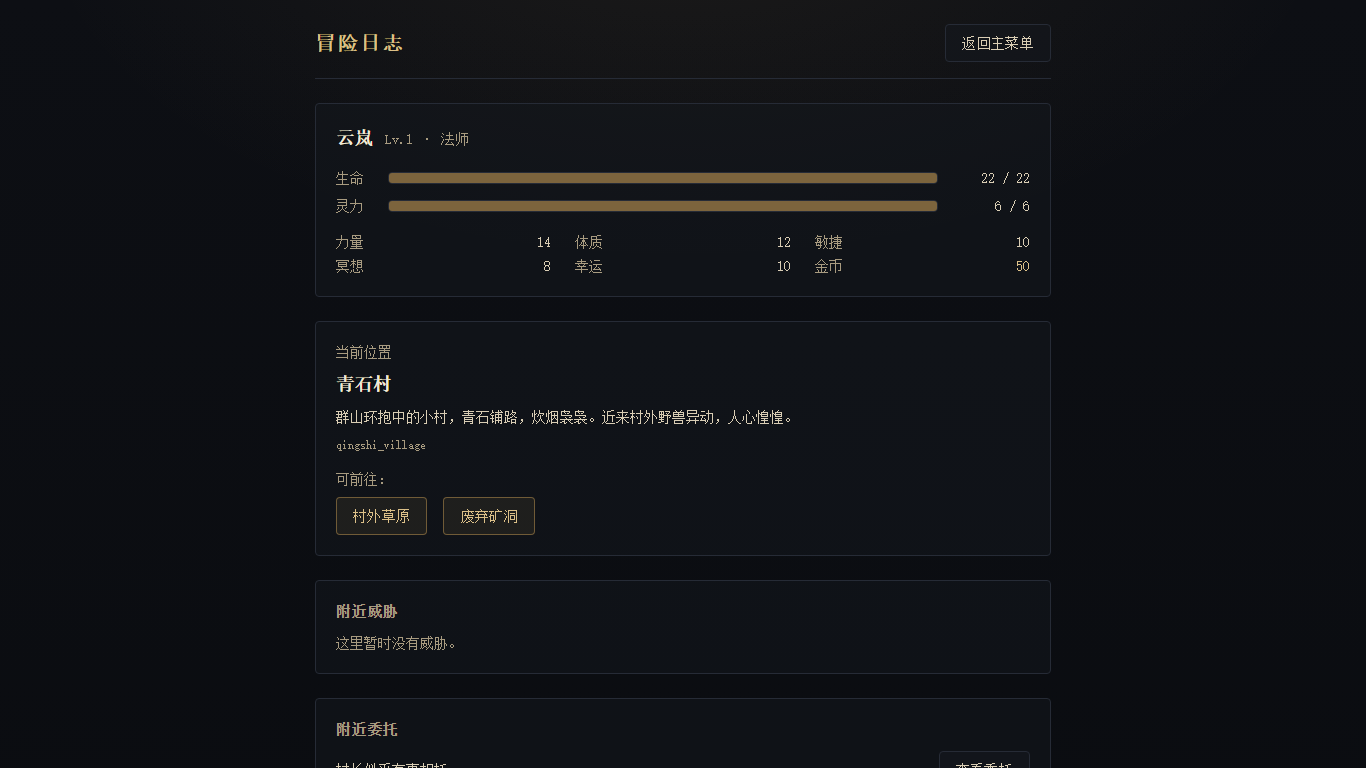
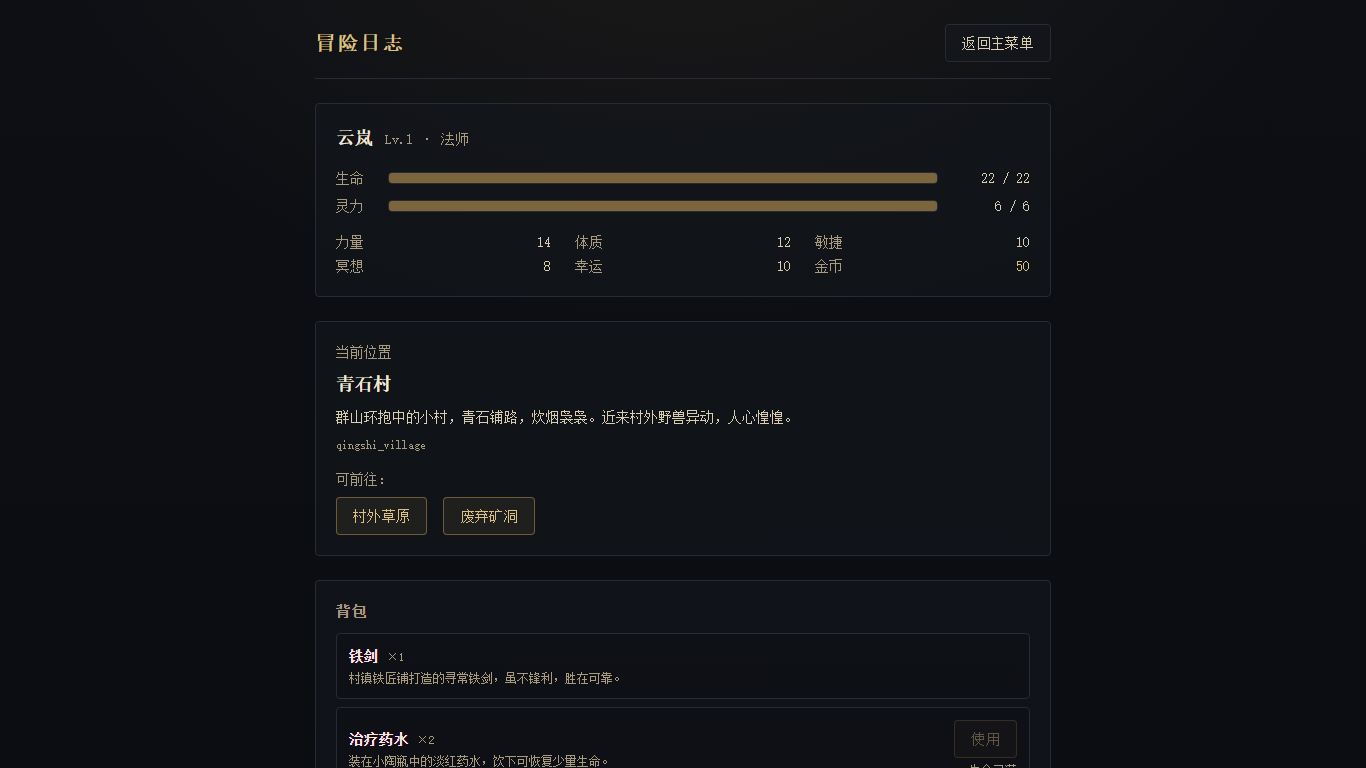
feat: add inventory healing flow

Changed region(s): [[0.246, 0.7812, 0.4612, 0.9062], [0.246, 0.9375, 0.4305, 1.0], [0.7072, 0.9375, 0.7379, 1.0]]

diff --git a/src/game/state/gameStore.test.ts b/src/game/state/gameStore.test.ts
@@ -517,3 +517,93 @@ describe('TM-P0-009：resolveCombatVictory 战斗胜利推进任务', () => {
     expect(useGameStore.getState().hasSave).toBe(false)
   })
 })
+
+describe('TM-P0-010：useHealingPotion 治疗药水', () => {
+  const player = () => useGameStore.getState().gameState!.player
+  const potionQty = () =>
+    useGameStore.getState().gameState?.inventory.find((e) => e.itemId === 'healing_potion')?.quantity ?? 0
+
+  it('正常治疗：HP 10/22 药水×2 → true，HP 18，药水×1', () => {
+    useGameStore.setState({
+      gameState: {
+        ...useGameStore.getState().gameState!,
+        player: { ...useGameStore.getState().gameState!.player, hp: 10 },
+      },
+    })
+    expect(useGameStore.getState().useHealingPotion()).toBe(true)
+    expect(player().hp).toBe(18)
+    expect(potionQty()).toBe(1)
+  })
+
+  it('上限截断：HP 20/22 → HP 22（不超过 maxHp），药水×1', () => {
+    useGameStore.setState({
+      gameState: {
+        ...useGameStore.getState().gameState!,
+        player: { ...useGameStore.getState().gameState!.player, hp: 20 },
+      },
+    })
+    expect(useGameStore.getState().useHealingPotion()).toBe(true)
+    expect(player().hp).toBe(22)
+    expect(potionQty()).toBe(1)
+  })
+
+  it('满血不浪费：HP 22/22 → false，HP 与药水不变', () => {
+    const before = JSON.stringify(useGameStore.getState().gameState)
+    expect(useGameStore.getState().useHealingPotion()).toBe(false)
+    expect(JSON.stringify(useGameStore.getState().gameState)).toBe(before)
+  })
+
+  it('HP 0 不允许复活：→ false，HP 与药水不变', () => {
+    useGameStore.setState({
+      gameState: {
+        ...useGameStore.getState().gameState!,
+        player: { ...useGameStore.getState().gameState!.player, hp: 0 },
+      },
+    })
+    const before = JSON.stringify(useGameStore.getState().gameState)
+    expect(useGameStore.getState().useHealingPotion()).toBe(false)
+    expect(JSON.stringify(useGameStore.getState().gameState)).toBe(before)
+  })
+
+  it('无药水：背包无 healing_potion → false，GameState 完全不变', () => {
+    useGameStore.setState({
+      gameState: {
+        ...useGameStore.getState().gameState!,
+        player: { ...useGameStore.getState().gameState!.player, hp: 10 },
+        inventory: useGameStore.getState().gameState!.inventory.filter((e) => e.itemId !== 'healing_potion'),
+      },
+    })
+    const before = JSON.stringify(useGameStore.getState().gameState)
+    expect(useGameStore.getState().useHealingPotion()).toBe(false)
+    expect(JSON.stringify(useGameStore.getState().gameState)).toBe(before)
+  })
+
+  it('最后一瓶：药水×1 成功使用后 inventory 移除该条目', () => {
+    useGameStore.setState({
+      gameState: {
+        ...useGameStore.getState().gameState!,
+        player: { ...useGameStore.getState().gameState!.player, hp: 10 },
+        inventory: [{ itemId: 'healing_potion', quantity: 1 }],
+      },
+    })
+    expect(useGameStore.getState().useHealingPotion()).toBe(true)
+    expect(player().hp).toBe(18)
+    expect(useGameStore.getState().gameState?.inventory.some((e) => e.itemId === 'healing_potion')).toBe(false)
+  })
+
+  it('无 gameState → false', () => {
+    useGameStore.setState({ gameState: null })
+    expect(useGameStore.getState().useHealingPotion()).toBe(false)
+  })
+
+  it('不自动保存：使用成功后 hasSave 仍 false', () => {
+    useGameStore.setState({
+      gameState: {
+        ...useGameStore.getState().gameState!,
+        player: { ...useGameStore.getState().gameState!.player, hp: 10 },
+      },
+    })
+    expect(useGameStore.getState().useHealingPotion()).toBe(true)
+    expect(useGameStore.getState().hasSave).toBe(false)
+  })
+})

diff --git a/src/pages/GamePage.tsx b/src/pages/GamePage.tsx
@@ -2,7 +2,7 @@ import { useState } from 'react'
 import Button from '../components/Button'
 import { useGameStore } from '../game/state/gameStore'
 import { getProfessionName, ATTRIBUTE_KEYS, ATTRIBUTE_LABELS } from '../game/content/professions'
-import { getEnemy, getLocation, getNpc, getQuest, QUESTS } from '../game/content'
+import { getEnemy, getItem, getLocation, getNpc, getQuest, QUESTS } from '../game/content'
 import type { QuestStatus } from '../game/types'
 
 interface GamePageProps {
@@ -43,6 +43,7 @@ export default function GamePage({ onBackToMenu, onEngage }: GamePageProps) {
   const discoverQuest = useGameStore((s) => s.discoverQuest)
   const acceptQuest = useGameStore((s) => s.acceptQuest)
   const completeQuest = useGameStore((s) => s.completeQuest)
+  const useHealingPotion = useGameStore((s) => s.useHealingPotion)
   const [saveResult, setSaveResult] = useState<'saved' | 'failed' | null>(null)
   const [travelError, setTravelError] = useState(false)
 
@@ -148,6 +149,46 @@ export default function GamePage({ onBackToMenu, onEngage }: GamePageProps) {
           <p className="text-bone-300">未知地点（{world.currentLocationId}）</p>
         )}
         {travelError && <p className="mt-3 text-sm text-red-300">无法前往该地点。</p>}
+      </section>
+
+      <section className="rounded border border-ink-600 bg-ink-800/50 p-5 text-sm text-bone-300">
+        <h3 className="mb-3 text-sm font-bold tracking-wider text-bone-500">背包</h3>
+        {gameState.inventory.length === 0 ? (
+          <p className="text-bone-500">背包空空如也。</p>
+        ) : (
+          <div className="flex flex-col gap-2">
+            {gameState.inventory.map((entry) => {
+              const def = getItem(entry.itemId)
+              // TM-P0-010：只有治疗药水提供使用入口；满血 / HP 0 时禁用
+              const isPotion = def?.id === 'healing_potion'
+              const canUse = isPotion && player.hp > 0 && player.hp < player.maxHp
+              return (
+                <div
+                  key={entry.itemId}
+                  className="flex items-center justify-between gap-3 rounded border border-ink-600 bg-ink-900/40 p-3"
+                >
+                  <div>
+                    <p className="font-bold text-bone-100">
+                      {def?.name ?? '未知物品'} <span className="text-xs font-normal text-bone-500">×{entry.quantity}</span>
+                    </p>
+                    <p className="mt-1 text-xs text-bone-500">
+                      {def ? def.description : `（缺失物品定义：${entry.itemId}）`}
+                    </p>
+                  </div>
+                  {isPotion && (
+                    <div className="flex flex-col items-end gap-1">
+                      <Button variant="primary" disabled={!canUse} onClick={() => useHealingPotion()}>
+                        使用
+                      </Button>
+                      {player.hp >= player.maxHp && <span className="text-xs text-bone-500">生命已满</span>}
+                      {player.hp <= 0 && <span className="text-xs text-red-300">当前无法使用</span>}
+                    </div>
+                  )}
+                </div>
+              )
+            })}
+          </div>
+        )}
       </section>
 
       <section className="rounded border border-ink-600 bg-ink-800/50 p-5 text-sm text-bone-300">

diff --git a/src/game/state/gameStore.ts b/src/game/state/gameStore.ts
@@ -3,7 +3,7 @@ import type { CharacterCreationInput, GameState, QuestStatus } from '../types'
 import { createInitialGameState } from '../content/initial'
 import { checkTravel } from '../rules/exploration'
 import { canTransitionQuestStatus } from '../rules/quest'
-import { getEnemy, getLocation, getQuest } from '../content'
+import { getEnemy, getItem, getLocation, getQuest } from '../content'
 import {
   deleteGame as deleteSave,
   hasSave as storageHasSave,
@@ -48,6 +48,8 @@ interface GameStoreState {
   damagePlayer: (amount: number) => boolean
   /** 战斗胜利提交：Store 自校验敌人存在且属于当前地点；《村外异动》进行中在村外草原击败魔化兔 → completable（TM-P0-009） */
   resolveCombatVictory: (enemyId: string) => boolean
+  /** 使用治疗药水：hp = min(maxHp, hp + healAmount)，药水 -1；满血/HP0/无药水返回 false 不变（TM-P0-010） */
+  useHealingPotion: () => boolean
   addGold: (amount: number) => void
   removeGold: (amount: number) => void
   addItem: (itemId: string, quantity?: number) => void
@@ -246,6 +248,39 @@ export const useGameStore = create<GameStoreState>()((set) => ({
       return { gameState: next }
     })
     return ok
+  },
+
+  useHealingPotion: () => {
+    let used = false
+    set((s) => {
+      if (!s.gameState) return {}
+      const player = s.gameState.player
+      // HP 0 不能复活；满血不浪费药水
+      if (player.hp <= 0 || player.hp >= player.maxHp) return {}
+      const potion = getItem('healing_potion')
+      if (!potion?.healAmount || !Number.isInteger(potion.healAmount) || potion.healAmount <= 0) return {}
+      const inv = s.gameState.inventory
+      const idx = inv.findIndex((e) => e.itemId === 'healing_potion')
+      if (idx < 0) return {}
+      const entry = inv[idx]
+      if (!entry || entry.quantity < 1) return {}
+      // 原子更新：HP 恢复与药水扣减在同一次 Store 更新中完成
+      const hp = Math.min(player.maxHp, player.hp + potion.healAmount)
+      const remaining = entry.quantity - 1
+      const inventory =
+        remaining > 0
+          ? inv.map((e, i) => (i === idx ? { ...e, quantity: remaining } : e))
+          : inv.filter((e) => e.itemId !== 'healing_potion')
+      used = true
+      return {
+        gameState: {
+          ...s.gameState,
+          player: { ...player, hp },
+          inventory,
+        },
+      }
+    })
+    return used
   },
 
   addGold: (amount) => {

diff --git a/src/game/content/content.test.ts b/src/game/content/content.test.ts
@@ -226,3 +226,27 @@ describe('TM-P0-008：地点遭遇敌人数据一致性', () => {
     expect(getLocation('qingshi_village')?.description).toContain('群山环抱')
   })
 })
+
+describe('TM-P0-010：治疗药水数据约束', () => {
+  it('healing_potion 为 consumable 且 healAmount === 8', () => {
+    const potion = getItem('healing_potion')
+    expect(potion?.type).toBe('consumable')
+    expect(potion?.healAmount).toBe(8)
+  })
+
+  it('healAmount 若存在必须为正整数且仅用于 consumable', () => {
+    for (const item of Object.values(ITEMS)) {
+      if (item.healAmount !== undefined) {
+        expect(Number.isInteger(item.healAmount), `${item.id} healAmount 正整数`).toBe(true)
+        expect(item.healAmount).toBeGreaterThan(0)
+        expect(item.type, `${item.id} healAmount 仅 consumable`).toBe('consumable')
+      }
+    }
+  })
+
+  it('其他物品不携带 healAmount', () => {
+    expect(getItem('iron_sword')?.healAmount).toBeUndefined()
+    expect(getItem('test_artifact')?.healAmount).toBeUndefined()
+    expect(getItem('rabbit_path')?.healAmount).toBeUndefined()
+  })
+})

diff --git a/src/game/content/items.ts b/src/game/content/items.ts
@@ -8,6 +8,8 @@ export interface ItemDefinition {
   description: string
   /** 基础价值（金币） */
   value: number
+  /** 使用后恢复的生命值（仅 consumable 可使用，TM-P0-010） */
+  healAmount?: number
 }
 
 /** V1 最小物品目录（仅当前需要的内容） */
@@ -25,6 +27,7 @@ export const ITEMS: Record<string, ItemDefinition> = {
     type: 'consumable',
     description: '装在小陶瓶中的淡红药水，饮下可恢复少量生命。',
     value: 10,
+    healAmount: 8,
   },
   test_artifact: {
     id: 'test_artifact',

diff --git a/README.md b/README.md
@@ -128,6 +128,14 @@ TM-P0-009（战斗胜利驱动《村外异动》任务闭环）：
 - GameState 类型结构未变、SAVE_VERSION 仍 1
 - 9 个 Store 单测（合法推进/未接受/available 不跳过/错误敌人/伪造胜利/未知敌人/终态不回退/无奖励副作用/不自动保存）+ 12 项 E2E 完整闭环（含固定随机一击击杀、无奖励断言）
 
+TM-P0-010（背包展示与治疗药水使用）：
+- ItemDefinition 新增静态内容字段 `healAmount`（非 GameState 字段）；healing_potion 锁定 healAmount=8、type=consumable；内容测试锁定所有 healAmount 存在则必须为正整数且仅用于 consumable
+- Store 新增 `useHealingPotion()`（唯一物品使用入口，未加通用 useItem）：需 gameState + 背包有药水 + 0 < hp < maxHp + 注册数据有效；成功 hp=min(maxHp, hp+8) 且药水 -1（同一 Store 更新原子完成）；满血 / HP 0（非复活道具）/ 无药水 → false 且 GameState 完全不变；最后一瓶使用后移除 inventory 条目（不存 quantity=0）；不自动保存
+- GamePage 新增「背包」区：显示 inventory（名称/数量/description 读 getItem）；仅 healing_potion 显示[使用]（启用条件 0 < hp < maxHp；满血禁用提示「生命已满」；HP 0 禁用提示「当前无法使用」）；其他物品只展示；未知物品显示「未知物品 ×n（缺失物品定义：id）」不崩溃不删除
+- CombatPage 未改（战斗中无背包/道具）；初始背包铁剑×1/治疗药水×2 不变
+- GameState 类型结构未变、SAVE_VERSION 仍 1、旧存档继续可读
+- 3 个内容数据测试 + 8 个 Store 单测（正常治疗/上限截断/满血/HP0/无药水/最后一瓶移除/无 gameState/不自动保存）+ 15 项 E2E（初始背包/满血禁用/确定性受伤 22→20→用药 22/药水×1/存档恢复）
+
 ## 目录结构
 
 ```
